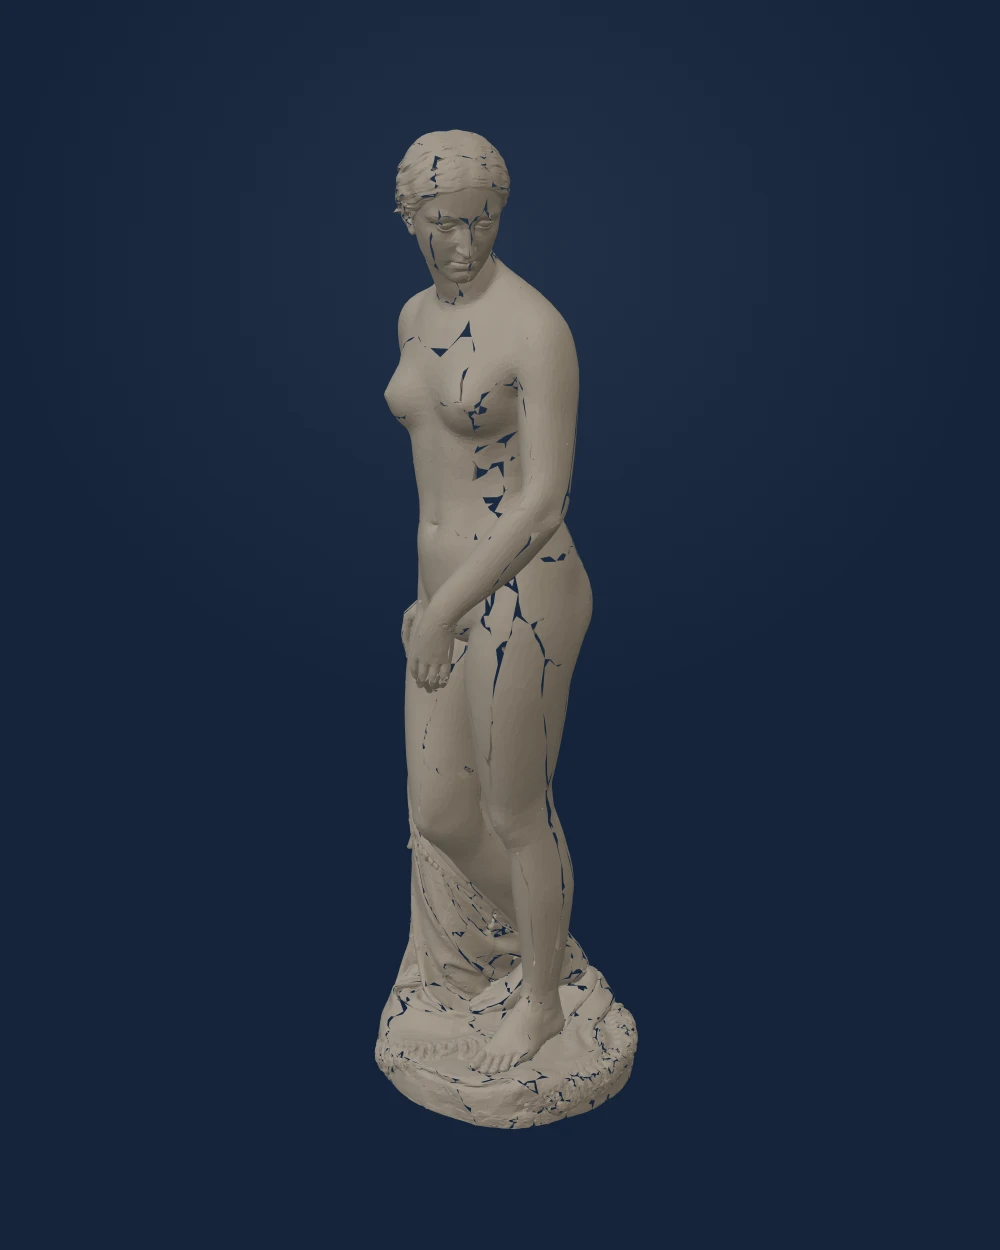
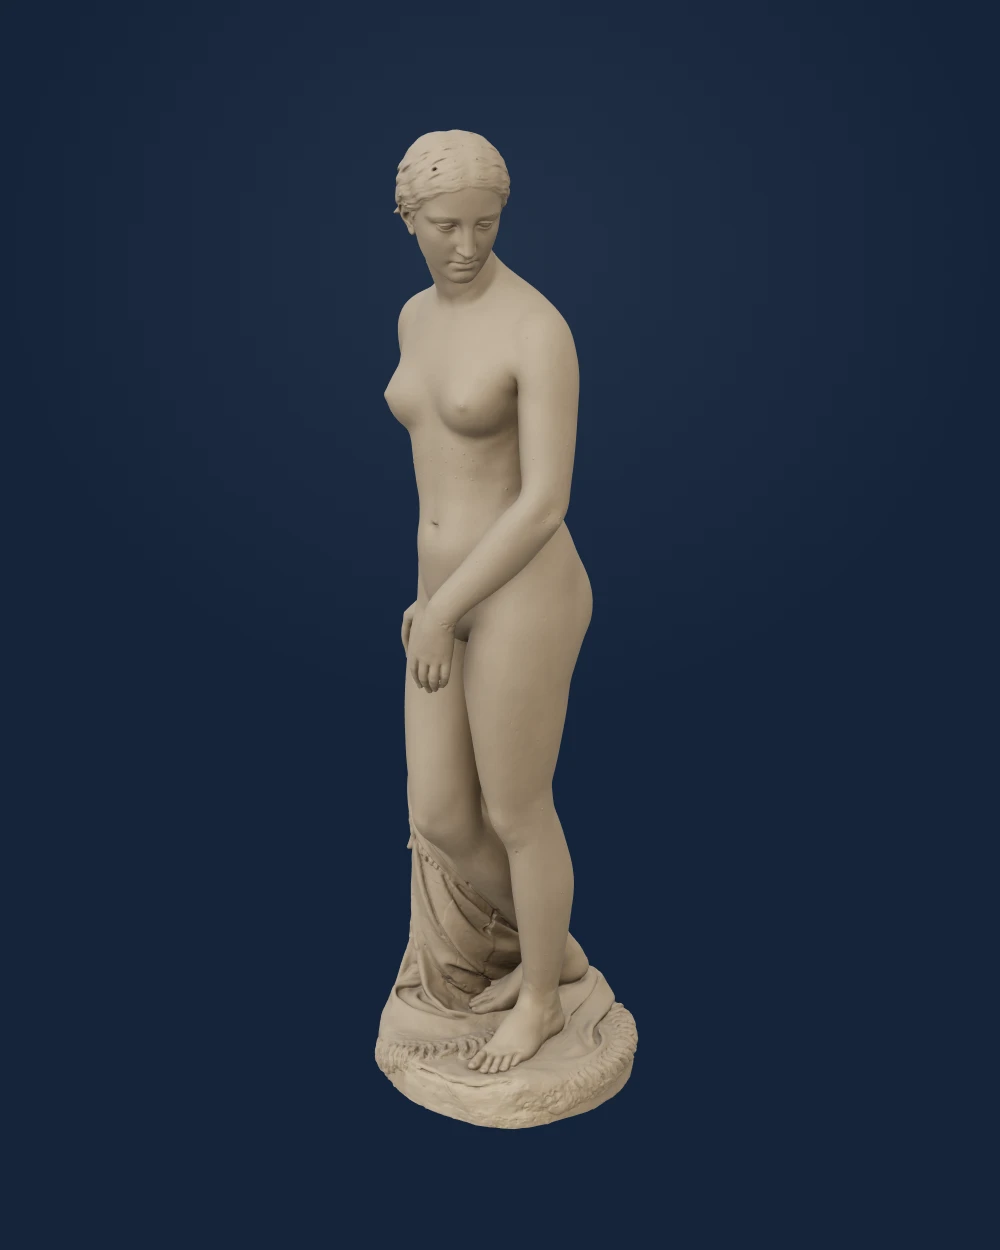
Repair Greek Slave preview

Changed region(s): [[0.372, 0.0936, 0.651, 0.9048]]

diff --git a/scripts/generate-previews.py b/scripts/generate-previews.py
@@ -2,6 +2,7 @@
 import argparse
 import json
 import os
+import shutil
 from pathlib import Path
 
 import trimesh
@@ -24,6 +25,9 @@ FEATURED_SLUGS = [
 SOURCE_OVERRIDES = {
     "michelangelo/david": "michelangelo/david/david_source.stl",
     "neoclassical/model-of-the-greek-slave-smithsonian": "neoclassical/model-of-the-greek-slave-smithsonian/greek-slave-smithsonian_preview.glb",
+}
+DIRECT_COPY_PREVIEWS = {
+    "neoclassical/model-of-the-greek-slave-smithsonian",
 }
 
 
@@ -96,6 +100,26 @@ def export_preview(work, source_root: Path, repo_root: Path, target_faces: int):
     loaded = trimesh.load(source_path, force=force)
     mesh = as_mesh(loaded)
     source_faces = int(len(mesh.faces))
+
+    if work["slug"] in DIRECT_COPY_PREVIEWS:
+        shutil.copyfile(source_path, output_path)
+        meta_path.write_text(
+            json.dumps(
+                {
+                    "slug": work["slug"],
+                    "source": str(source_path),
+                    "sourceBytes": source_path.stat().st_size,
+                    "sourceFaces": source_faces,
+                    "faces": source_faces,
+                    "targetFaces": source_faces,
+                    "directCopy": True,
+                },
+                indent=2,
+            )
+            + "\n"
+        )
+        return output_path
+
     preview = simplify(mesh, target_faces)
     preview.export(output_path, file_type="glb")
     meta_path.write_text(